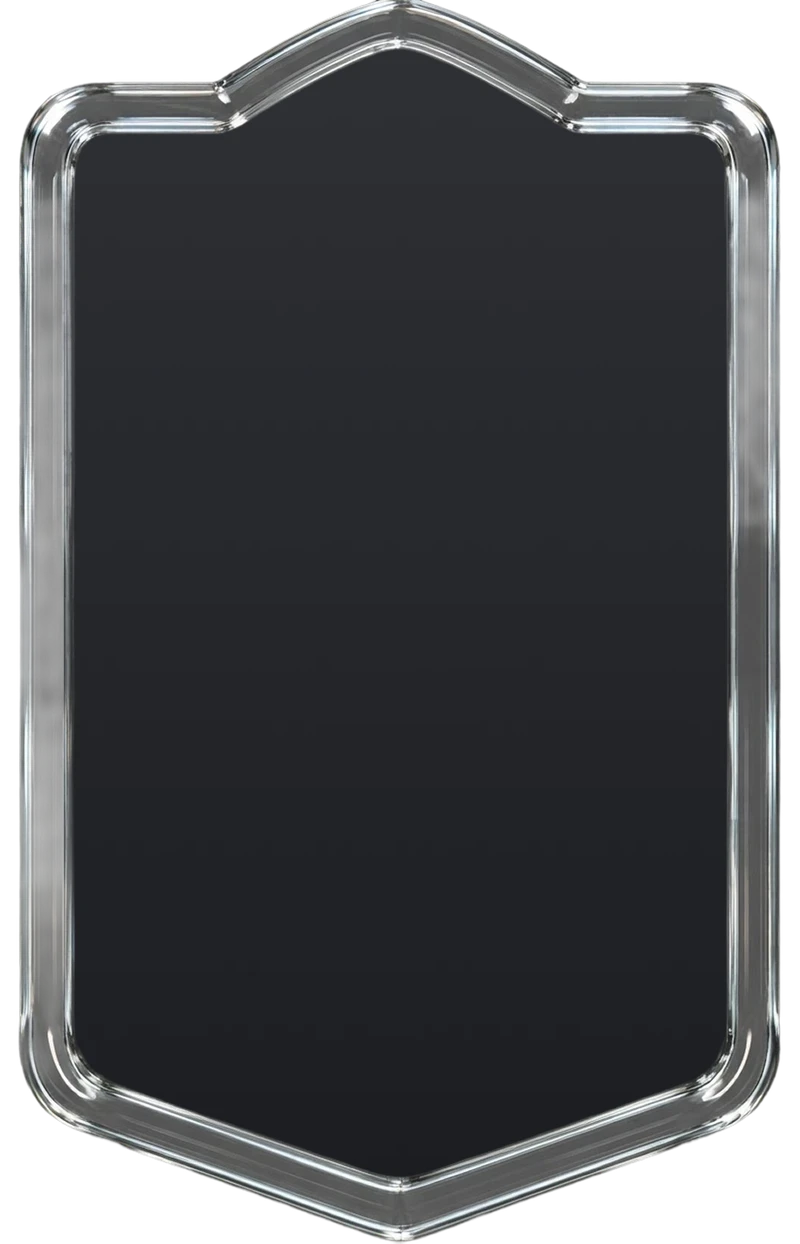
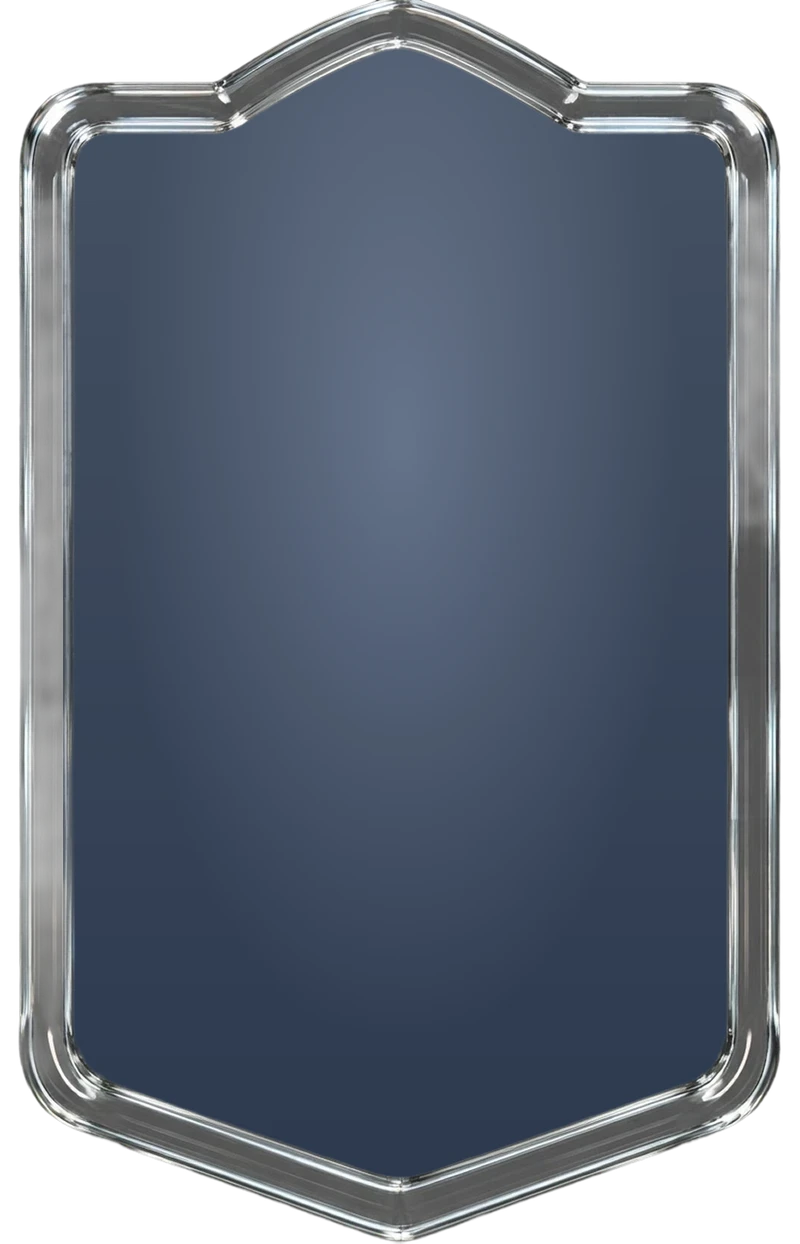
feat(ui): Simple Glass gets a frosted-glass interior (live blur + dark tint) (#2173)
* feat(ui): Simple Glass gets a frosted-glass interior (live blur + dark tint) (owner 2026-10-19)

The interior image is only a shape: the card masks a static backdrop-filter blur and a dark tint to it; a dragged card
drops the blur. New interiors/frosted.webp (Simple Black's outline) for the Collection picture.

* fix(ui): Simple Glass frosted glass is one light grey everywhere, with more blur (owner 2026-10-19)

"i like the lighter grey hover effect more and want to get it closer to that at all times. maybe increase the amount
of blur a bit". Frosted grey layer rgba(138, 144, 156, 0.6) instead of a dark tint, blur 6px -> 10px, and a dragged
card keeps the same grey (only the blur is dropped).

* fix(ui): Simple Glass frost lighter (grey 0.24), stronger blur (15px), and it blurs while dragged (owner 2026-10-19)

"reduce the opacity of the light grey by 60% and increase the blur by 50%"; "can you have it apply the blur while
moving ?" A dragged glass card moves the drag layer's drop-shadow onto its frame, since a filter on the drag layer
would make it a backdrop root and the blur would see nothing.

* fix(ui): Simple Glass blur-only test setting: grey 0, blur 40px (owner 2026-10-19)

"reduce the opacity of the light grey to 0 for now. i just want to see the blur", "dramatically increase the blur
amount".

* fix(ui): Simple Glass holds the dragging look everywhere: warm grey layer at 65% over the 40px blur (owner 2026-10-19)
[…]

diff --git a/packages/ui/src/styles.css b/packages/ui/src/styles.css
@@ -3347,7 +3347,17 @@ body.modalup .app { z-index: auto; }
 /* right-click inspect: the card floats to centre, enlarged, over a dimmed backdrop */
 /* z-index 500 keeps inspect above even the end-of-run overlay (z 400), so right-clicking a minion in
    the final warband to read its buffs works there too. */
-.inspect-ov { position: fixed; inset: 0; z-index: 500; background: rgba(26, 16, 6, 0.6); -webkit-backdrop-filter: blur(8px); backdrop-filter: blur(8px); display: grid; place-items: center; animation: fadein 0.14s ease; cursor: url('/cursors/gauntlet_default.svg') 6 2, auto; }
+/* The dim + blur live on a `::before` BEHIND the card, not on the overlay itself: a `backdrop-filter` on an ancestor
+   makes it a backdrop root, so a frosted-glass card plate inside (Simple Glass) would blur only the overlay's own
+   tint, never the board (owner 2026-10-19: "the blur effect is not happening when … inspecting"). Same look. */
+.inspect-ov { position: fixed; inset: 0; z-index: 500; display: grid; place-items: center; animation: fadein 0.14s ease; cursor: url('/cursors/gauntlet_default.svg') 6 2, auto; }
+.inspect-ov::before { content: ''; position: absolute; inset: 0; z-index: -1; background: rgba(26, 16, 6, 0.6); -webkit-backdrop-filter: blur(8px); backdrop-filter: blur(8px); }
+/* An opacity fade makes its element a backdrop root too, so for a glass card only the backdrop fades and the card
+   pops on scale alone: the glass is blurred from the first frame instead of switching colour after the fade. */
+.inspect-ov:has(.plate-frosted) { animation: none; }
+.inspect-ov:has(.plate-frosted)::before { animation: fadein 0.14s ease; }
+.inspect-ov .inspect-card:has(.plate-frosted) { animation-name: inspectpop-glass; }
+@keyframes inspectpop-glass { from { transform: scale(1.45) translateY(-15%); } to { transform: scale(1.9) translateY(-15%); } }
 /* The inspect view scales the whole group (buff breakdown + card) as one unit, so the breakdown
    panel sits cleanly to the LEFT of the enlarged card without transform/layout mismatch. */
 .inspect-card { position: relative; display: flex; align-items: center; gap: 10px; transform: scale(1.9) translateY(-15%); transform-origin: center; animation: inspectpop 0.18s cubic-bezier(0.34, 1.3, 0.64, 1); }
@@ -4942,6 +4952,51 @@ body.dragging .zone[data-zone='tavern'] .card:hover .cglow { opacity: 0; }
   pointer-events: none;
   user-select: none;
 }
+/* A FROSTED interior (cardPlateLook.ts `frosted`, Simple Glass; owner 2026-10-19: "clear and blurs all imagery behind
+   it", then "i like the lighter grey hover effect more and want to get it closer to that at all times. maybe increase
+   the amount of blur a bit"). The interior <img> keeps its box (so the fit, the fade-in and the Card Plate Editor's
+   sliders all work unchanged) but paints NONE of its pixels: `object-position` throws the image out of its own box.
+   What shows is a blur of what is behind the card under a thin GREY layer (values below), both clipped to the
+   interior's outline by masking the element with that same image. STATIC: nothing here animates (performance north star).
+   It BLURS WHILE DRAGGED too (owner 2026-10-19: "can you have it apply the blur while moving ?"). The drag layer's
+   drop-shadow is a `filter`, which would make it a backdrop root (the blur would see nothing behind the card), so a
+   dragged GLASS card moves that shadow onto its frame instead: same silhouette shadow, and the blur sees the board.
+   Costs a re-blur per frame for that one card while it moves. */
+.card.plated .cardplate.plate-interior.plate-frosted {
+  object-position: -100000px 0;
+  /* Owner 2026-10-19, once the blur showed in every state: "make the grey layer less warm and more dark grey, then
+     reduce its opacity to 15%. reduce the blur by 20px" (from a warm rgba(140, 118, 120, 0.65) over a 40px blur), then
+     "reduce the blur to 13px. increase the grey opacity to 25%", then "reduce the blur to 10px",
+     then "increase grey to 35%", then "reduce blur to 7px". */
+  background: rgba(58, 60, 64, 0.35);
+  -webkit-backdrop-filter: blur(7px); backdrop-filter: blur(7px);
+  -webkit-mask: var(--plate-frost-mask) center / 100% 100% no-repeat; mask: var(--plate-frost-mask) center / 100% 100% no-repeat;
+}
+.dragcard:has(.plate-frosted) { filter: none; }
+.dragcard:has(.plate-frosted) .plate-frame { filter: drop-shadow(0 16px 22px rgba(0, 0, 0, 0.34)); }
+/* Same for a HOVERED hand card (owner 2026-10-19: "the blur effect is not happening when hovering"): the hover lift's
+   drop-shadow `filter` would cut the glass off from the board, so a glass card shadows its frame instead. */
+.row.hand .card.plated:has(.plate-frosted):hover { filter: none; }
+.row.hand .card.plated:has(.plate-frosted):hover .plate-frame { filter: drop-shadow(0 calc(9 * var(--u)) calc(20 * var(--u)) rgba(20, 12, 4, 0.42)); }
+/* And the hover reveal / cast preview popups (owner 2026-10-19: "hovering a card in shop, the blur and grey isnt
+   applied"): their white haze is a `filter` on the whole popup, so with a glass card the haze moves onto the frame and
+   each side panel, and the reveal slides in without its opacity fade (a fade is a backdrop root too). */
+.cardref:has(.plate-frosted), .castprev:has(.plate-frosted) { filter: none; }
+.cardref:has(.plate-frosted) .plate-frame, .cardref:has(.plate-frosted) .cardref-inner > :not(.card),
+.castprev:has(.plate-frosted) .plate-frame {
+  filter: drop-shadow(0 0 11px rgba(255, 255, 255, 0.75)) drop-shadow(0 0 26px rgba(255, 255, 255, 0.45)) drop-shadow(0 12px 28px rgba(0, 0, 0, 0.45));
+}
+.cardref:has(.plate-frosted) { animation-name: cardrefin-glass; }
+@keyframes cardrefin-glass { from { transform: translateX(-10px); } to { transform: translateX(0); } }
+/* No opacity on the glass's way IN either (owner 2026-10-19: "theres a brief mooment that it takes before it loads the
+   blur when hovering"): a glass card's mount pop is motion-only, and the glass skips the art-pending hide (it paints
+   none of the image's pixels, and its mask shows nothing until that image is there anyway), so the blur is on from
+   the first frame instead of after ~0.3 s. A delayed token pop keeps its fade (it must stay invisible while it waits). */
+.card.popin:not(.popdelay):has(.plate-frosted) { animation-name: cardpop-glass; }
+.row.hand .card.popin:not(.popdelay):has(.plate-frosted) { animation-name: handpop-glass; }
+@keyframes cardpop-glass { from { transform: translateY(8px); } to { transform: none; } }
+@keyframes handpop-glass { from { transform: translateY(var(--hand-tuck, 32%)) scale(0.9); } to { transform: translateY(var(--hand-tuck, 32%)) scale(1); } }
+.card.plated .cardplate.plate-interior.plate-frosted.art-pending { opacity: 1 !important; }
 /* The hover glow traces the FRAME on a layered plate, so it takes the same nudge and size. */
 .card.plated .plateglow.plate-framed { transform: translateX(-50%) translate(calc(var(--ccw) * var(--plate-frame-x, 0)), calc(var(--ccw) * var(--plate-frame-y, 0))) scale(var(--plate-art-s, 1)); }
 .card.compact.showtext.spellcard .drawer .plate-frame {

diff --git a/packages/ui/src/cardPlate/cardPlate.test.tsx b/packages/ui/src/cardPlate/cardPlate.test.tsx
@@ -84,6 +84,55 @@ describe('the card plate a card wears', () => {
     expect(drawer.indexOf('plate-frame')).toBeLessThan(drawer.findIndex((c) => c === 'cn'));
   });
 
+  it('Simple Glass has a FROSTED interior: a live blur of what is behind, masked to its shape, no pixels of its own (owner 2026-10-19)', () => {
+    // "create a card interior for the blown glass card frame that would actually just be clear and blurs all imagery
+    // behind it"; "slightly darkened too to help readability".
+    const el = render('k_pouchpincher', 'neutral', { snapshot: { cardPlate: 'plate_simple_glass' } as unknown as typeof AQUARIUM });
+    const interior = el.querySelector('img.cardplate')!;
+    expect(interior.classList.contains('plate-frosted')).toBe(true);
+    expect(interior.getAttribute('src')).toContain('frames/plates/interiors/frosted.webp');
+    expect(el.style.getPropertyValue('--plate-frost-mask')).toContain('frames/plates/interiors/frosted.webp');
+    expect(el.querySelector('img.descbox')).toBeNull();
+    // No other plate is frosted.
+    for (const look of Object.values(CARD_PLATE_LOOKS)) expect(!!look.frosted, look.id).toBe(look.id === 'plate_simple_glass');
+    // The stylesheet blurs and tints it and hides the image's own pixels.
+    const css = readFileSync(join(__dirname, '../styles.css'), 'utf8');
+    const rule = css.slice(css.indexOf('.card.plated .cardplate.plate-interior.plate-frosted {'));
+    expect(rule.slice(0, rule.indexOf('}'))).toMatch(/backdrop-filter: blur\(\d+px\)[\s\S]*mask: var\(--plate-frost-mask\)/);
+    // ...and it blurs WHILE DRAGGED too (owner 2026-10-19: "can you have it apply the blur while moving ?"): the drag layer's
+    // drop-shadow filter would block the blur, so a dragged glass card drops it and shadows its frame instead.
+    expect(css).not.toMatch(/\.dragcard[^{]*plate-frosted[^{]*\{[^}]*backdrop-filter: none/);
+    expect(css).toMatch(/\.dragcard:has\(\.plate-frosted\) \{ filter: none; \}/);
+    expect(css).toMatch(/\.dragcard:has\(\.plate-frosted\) \.plate-frame \{ filter: drop-shadow\(/);
+    // ...and while HOVERED in hand, and in INSPECT (owner 2026-10-19: "the blur effect is not happening when hovering,
+    // when in hand, when inspecting"). Any ancestor with a filter, an opacity fade or its own backdrop-filter cuts the
+    // glass off from the board, so: the hover lift's shadow moves onto the frame, and Inspect's dim + blur live on a
+    // ::before behind the card rather than on the overlay, which a glass card's Inspect does not opacity-fade.
+    expect(css).toMatch(/\.row\.hand \.card\.plated:has\(\.plate-frosted\):hover \{ filter: none; \}/);
+    expect(css).toMatch(/\.row\.hand \.card\.plated:has\(\.plate-frosted\):hover \.plate-frame \{ filter: drop-shadow\(/);
+    const ov = css.slice(css.indexOf('.inspect-ov { position: fixed;'));
+    expect(ov.slice(0, ov.indexOf('}'))).not.toMatch(/backdrop-filter|background/);
+    expect(css).toMatch(/\.inspect-ov::before \{[^}]*backdrop-filter: blur\(/);
+    expect(css).toMatch(/\.inspect-ov:has\(\.plate-frosted\) \{ animation: none; \}/);
+    // ...and in the shop's hover reveal and the cast preview (owner 2026-10-19: "hovering a card in shop, the blur and grey
+    // isnt applied"): their haze filter moves off the popup, and the reveal slides in without an opacity fade.
+    expect(css).toMatch(/\.cardref:has\(\.plate-frosted\), \.castprev:has\(\.plate-frosted\) \{ filter: none; \}/);
+    expect(css).toMatch(/\.cardref:has\(\.plate-frosted\) \{ animation-name: cardrefin-glass; \}/);
+    const refIn = css.slice(css.indexOf('@keyframes cardrefin-glass'));
+    expect(refIn.slice(0, refIn.indexOf('} }'))).not.toMatch(/opacity/);
+    // No fade on the way in at all (owner 2026-10-19: "theres a brief mooment that it takes before it loads the blur when
+    // hovering"): a glass card's mount pop is motion-only, and the glass ignores the art-pending hide.
+    expect(css).toMatch(/\.card\.popin:not\(\.popdelay\):has\(\.plate-frosted\) \{ animation-name: cardpop-glass; \}/);
+    expect(css).toMatch(/\.row\.hand \.card\.popin:not\(\.popdelay\):has\(\.plate-frosted\) \{ animation-name: handpop-glass; \}/);
+    for (const k of ['cardpop-glass', 'handpop-glass']) {
+      const kf = css.slice(css.indexOf(`@keyframes ${k}`));
+      expect(kf.slice(0, kf.indexOf('} }')), k).not.toMatch(/opacity/);
+    }
+    expect(css).toMatch(/\.plate-frosted\.art-pending \{ opacity: 1 !important; \}/);
+    const pop = css.slice(css.indexOf('@keyframes inspectpop-glass'));
+    expect(pop.slice(0, pop.indexOf('} }'))).not.toMatch(/opacity/);
+  });
+
   it('every plate that sat on Brown wears Dark Brown with no darkening (owner 2026-10-18)', () => {
     // "replace all cards' brown interior (except the standard card plate) with the dark brown interior and remove
     // darkening from them"

diff --git a/packages/ui/src/cardPlate/cardPlateLook.ts b/packages/ui/src/cardPlate/cardPlateLook.ts
@@ -67,6 +67,13 @@ export interface CardPlateLook {
    * frame and its glow; the interior follows (see `scaledInterior`). Absent = 1.
    */
   artScale?: number;
+  /**
+   * A FROSTED-GLASS interior (owner 2026-10-19, Simple Glass: "clear and blurs all imagery behind it", "slightly
+   * darkened too to help readability"). The interior image is then only a SHAPE: the card draws none of its pixels,
+   * masks a live `backdrop-filter` blur plus a dark tint to it (styles.css `.plate-frosted`). Its colours show only in
+   * the Collection picture, which cannot blur what is behind it.
+   */
+  frosted?: boolean;
   /** The plate WHOLE, for the Collection (tile + detail panel): the plate itself, or for a layered plate a pre-built
    *  composite of the interior seated in the frame (`<id>.webp`, built at the in-game proportions). */
   thumb: string;
@@ -75,14 +82,14 @@ export interface CardPlateLook {
 const PLATE_DIR = `${import.meta.env.BASE_URL}frames/plates/`;
 
 /** The shared interiors a layered plate can sit on (`frames/plates/interiors/<name>.webp`). Brown is the default. */
-export const PLATE_INTERIORS = ['brown', 'dark', 'magma', 'water', 'simpleblack', 'darkbrown', 'grey', 'mystic', 'roundmagic', 'silvermagic', 'wartorn'] as const;
+export const PLATE_INTERIORS = ['brown', 'dark', 'magma', 'water', 'simpleblack', 'darkbrown', 'grey', 'mystic', 'roundmagic', 'silvermagic', 'wartorn', 'frosted'] as const;
 export type PlateInterior = (typeof PLATE_INTERIORS)[number];
 export const DEFAULT_PLATE_INTERIOR: PlateInterior = 'brown';
 
 /** Each interior image's height / width: it is drawn 1.08 card widths wide, so this sets its height. */
 const INTERIOR_ASPECT: Readonly<Record<PlateInterior, number>> = {
   brown: 1.7985, dark: 1.8032, magma: 1.8032, water: 1.8031, simpleblack: 1.7254, darkbrown: 1.7985, grey: 1.8032,
-  mystic: 1.6554, roundmagic: 1.7184, silvermagic: 1.7261, wartorn: 1.6276,
+  mystic: 1.6554, roundmagic: 1.7184, silvermagic: 1.7261, wartorn: 1.6276, frosted: 1.7254,
 };
 
 /**
@@ -100,7 +107,7 @@ function scaledInterior(s: number, interior: PlateInterior, sx: number, sy: numb
 }
 
 /** One entry per `card_plate` art key (`assets.art`). Tuned by eye with the owner in game, 2026-10-14. */
-type LookSettings = Pick<CardPlateLook, 'boxA' | 'boxBlend' | 'boxY' | 'frameX' | 'frameY' | 'interiorSx' | 'interiorSy' | 'interiorX' | 'interiorY' | 'artScale'> & {
+type LookSettings = Pick<CardPlateLook, 'boxA' | 'boxBlend' | 'boxY' | 'frameX' | 'frameY' | 'interiorSx' | 'interiorSy' | 'interiorX' | 'interiorY' | 'artScale' | 'frosted'> & {
   /** false = no text darkening on this plate (its interior is already dark enough). */
   darken?: boolean;
   /** A layered plate (interior -> darkening -> frame). */
@@ -172,7 +179,9 @@ const SETTINGS: Readonly<Record<string, LookSettings>> = {
   // Simple Glass: the Simple template (pointed bottom), like Simple Black. The glass is see-through on its left
   // edge, so its fit counted alpha > 60 as frame (`--fit-alpha 60`); the opening is centred like Simple Black's.
   // Owner 2026-10-17: "the glass frame needs the simpleblack interior" (was Grey); refit on that interior's shape.
-  plate_simple_glass: { ...AQUARIUM_ROCKS, layered: true, interior: 'simpleblack', frameX: 0.004, interiorSx: 1.171, interiorSy: 1.159, interiorY: 0.0919, darken: false },
+  // Owner 2026-10-19: FROSTED, "clear and blurs all imagery behind it" and "slightly darkened". The `frosted` interior is
+  // Simple Black's exact outline (same size), so its fit holds.
+  plate_simple_glass: { ...AQUARIUM_ROCKS, layered: true, interior: 'frosted', frosted: true, frameX: 0.004, interiorSx: 1.171, interiorSy: 1.159, interiorY: 0.0919, darken: false },
   // Stonevines: the standard template with vines spilling over the edge, on the Grey interior; opening 0.5px left.
   plate_stonevines: { ...AQUARIUM_ROCKS, layered: true, interior: 'grey', frameX: 0.005, interiorSx: 1.047, interiorSy: 1.026, interiorY: -0.0066, darken: false },
   // The four STANDARD colours: the standard plate's shape recoloured, on the new Dark Brown interior; openings 1px left

diff --git a/packages/rules/src/registry/approved/foundation.ts b/packages/rules/src/registry/approved/foundation.ts
@@ -6936,4 +6936,40 @@ export const FOUNDATION_RULES: GameRule[] = [
     currentBehaviour: 'Conforms as of 2026-10-18 (feat/mobile-touch-ui-scale).',
     enforcement: { kind: 'scenario', refs: ['packages/ui/src/touchUi.test.ts'], lastVerifiedAt: '2026-10-18' },
   },
+  // ── A frosted-glass card plate blurs what is behind it in every state (owner 2026-10-19) ─────────────────
+  {
+    id: 'R-PLATE-02',
+    title: 'A frosted-glass Card Plate blurs whatever is behind the card in every state it is shown in',
+    statement:
+      'A Card Plate whose interior is frosted glass (Simple Glass today) shows a soft blur of whatever is actually behind '
+      + 'the card, under its own tint, wherever the card is drawn: at rest in the hand, hovered in the hand, while being '
+      + 'dragged, enlarged in Inspect, and in the hover reveal (hovering a shop or board card). It never shows a flat colour in one of those states and the blur in another, '
+      + 'and it never switches between the two after a short delay.',
+    domain: 'foundation',
+    status: 'approved',
+    evidence: [
+      { kind: 'owner-chat', ref: 'Claude Code session, 2026-10-19 (Simple Glass frosted interior)', quote: 'heres while dragging. THIS is the effect i want on it at all times' },
+      { kind: 'owner-chat', ref: 'Same session, 2026-10-19', quote: 'the blur effect is not happening when hovering, when in hand, when inspecting' },
+      { kind: 'owner-chat', ref: 'Same session, 2026-10-19', quote: 'the only thing not working still is the hovering a c ard in shop, the blur and grey isnt applied.' },
+      { kind: 'owner-chat', ref: 'Same session, 2026-10-19', quote: 'theres a brief mooment that it takes before it loads the blur when hovering' },
+      { kind: 'fix-pr', ref: 'feat/simple-glass-frosted (PR #2173): packages/ui/src/styles.css (`.dragcard:has(.plate-frosted)`, `.row.hand .card.plated:has(.plate-frosted):hover`, `.inspect-ov::before`, `inspectpop-glass`, `.cardref:has(.plate-frosted)`, `cardrefin-glass`, `cardpop-glass`, `handpop-glass`, `.plate-frosted.art-pending`)' },
+    ],
+    currentBehaviour:
+      'Conforms as of 2026-10-19 (feat/simple-glass-frosted) for the hand at rest, hand hover, drag, Inspect and the shop '
+      + 'hover reveal, checked '
+      + 'in a browser against a striped backdrop. The blur is a CSS backdrop-filter, which sees nothing past an ancestor '
+      + 'that has a filter, an opacity below 1 or a backdrop-filter of its own. Before the fix the hover lift\x27s '
+      + 'drop-shadow, the drag layer\x27s drop-shadow, the hover reveal\x27s white haze and fade-in, and the Inspect '
+      + 'overlay\x27s own blur and fade-in each cut the glass off, and the card\x27s mount fade (`popin`) plus the '
+      + 'glass\x27s own wait for its plate image hid it for ~0.3 s on every hover; together they cut the glass '
+      + 'off, so it showed only its tint. PARTIAL: the cast preview (a cast spell floating over its caster) has its haze '
+      + 'moved the same way but fades in and out, and its tuner\x27s max opacity can sit below full, so the glass there can '
+      + 'read as the tint alone; Discover and the Collection preview were not checked; the Collection tile is a pre-built '
+      + 'picture and cannot blur.',
+    example:
+      'Equip Simple Glass. Hover a hand card that sits over the board edge: the edge shows through the glass as a soft '
+      + 'blur, the same as when that card is dragged over it. Right-click it: in Inspect the glass shows the dimmed '
+      + 'board blurred, from the first frame.',
+    enforcement: { kind: 'scenario', refs: ['packages/ui/src/cardPlate/cardPlate.test.tsx'], lastVerifiedAt: '2026-10-19' },
+  },
 ];

diff --git a/packages/ui/src/Card.tsx b/packages/ui/src/Card.tsx
@@ -940,7 +940,7 @@ export const Card = memo(function Card({
         // the card's own entry — the base and the branch are different pictures (owner ask 2026-08-28).
         ...(cardArtVars(card.cardId ? artVariantKey(card.cardId, card.chosenOption) : undefined, card.cardId) ?? {}),
         /* A card plate's own darkening (2026-10-14): inline, so it beats the Card Text tuner's :root values on THIS card. */
-        ...(plateLook ? { '--ctx-box-a': plateLook.boxA, '--ctx-box-blend': plateLook.boxBlend, '--ctx-box-y': plateLook.boxY, ...(plateLook.frameX ? { '--plate-frame-x': plateLook.frameX } : {}), ...(plateLook.frameY ? { '--plate-frame-y': plateLook.frameY } : {}), ...(plateLook.interiorX ? { '--plate-interior-x': plateLook.interiorX } : {}), ...(plateLook.interiorSx ? { '--plate-interior-sx': plateLook.interiorSx } : {}), ...(plateLook.interiorSy ? { '--plate-interior-sy': plateLook.interiorSy } : {}), ...(plateLook.interiorY ? { '--plate-interior-y': plateLook.interiorY } : {}), ...(plateLook.artScale ? { '--plate-art-s': plateLook.artScale } : {}) } : {}),
+        ...(plateLook ? { '--ctx-box-a': plateLook.boxA, '--ctx-box-blend': plateLook.boxBlend, '--ctx-box-y': plateLook.boxY, ...(plateLook.frameX ? { '--plate-frame-x': plateLook.frameX } : {}), ...(plateLook.frameY ? { '--plate-frame-y': plateLook.frameY } : {}), ...(plateLook.interiorX ? { '--plate-interior-x': plateLook.interiorX } : {}), ...(plateLook.interiorSx ? { '--plate-interior-sx': plateLook.interiorSx } : {}), ...(plateLook.interiorSy ? { '--plate-interior-sy': plateLook.interiorSy } : {}), ...(plateLook.interiorY ? { '--plate-interior-y': plateLook.interiorY } : {}), ...(plateLook.artScale ? { '--plate-art-s': plateLook.artScale } : {}), ...(plateLook.frosted ? { '--plate-frost-mask': `url("${plateLook.plate}")` } : {}) } : {}),
         transform: handSlidePx
           ? `translateX(${handSlidePx}px) translateY(var(--hand-tuck, 0px)) rotate(var(--fan-rot, 0deg))` /* hand reorder: keep the tuck + fan tilt while parting */
           : slideDir ? `translateX(calc((var(--ccw) + 22px) * ${slideDir}))` : undefined } as CSSProperties}
@@ -1002,7 +1002,7 @@ export const Card = memo(function Card({
               src, so the browser serves it from cache — no second decode. */}
           <img decoding="sync" className={`plateglow${plateLook?.frame ? ' plate-framed' : ''}${plateFade.cls}`} src={plateLook?.frame ?? plateSrc} alt="" aria-hidden="true" draggable={false} />
           <img decoding="sync"
-            className={`cardplate${plateLook?.frame ? ' plate-interior' : ''}${plateFade.cls}`}
+            className={`cardplate${plateLook?.frame ? ' plate-interior' : ''}${plateLook?.frosted ? ' plate-frosted' : ''}${plateFade.cls}`}
             src={plateSrc}
             alt=""
             aria-hidden="true"

diff --git a/packages/ui/src/patchNotes.ts b/packages/ui/src/patchNotes.ts
@@ -58,6 +58,7 @@ export const PATCH_NOTES: PatchNote[] = [
   {
     date: '2026-10-19',
     changes: [
+      { category: 'Systems', text: 'The Simple Glass Card Plate is now real frosted glass: a light grey pane that softly blurs whatever is behind the card.' },
       { category: 'Systems', text: 'Nothing flashes over the blue curtain between the Shop and combat any more.', details: ['Effects and pop-ups that used to poke through it (the Rebirth flame, the rune lock-in, tutorial tips, emotes, screen flashes) now stay hidden behind it until the new screen is revealed.', 'The Esc menu and the replay controls still show on top if they are open.'] },
       { category: 'Systems', text: 'Many Card Plates changed rarity, so more of them drop from crates.', details: ['Now Rare: Hand Drawn, Blue Hand Drawn, Green Hand Drawn, Smooth Aqua, Smooth Blue, Smooth Red, Beach, Magma, Bamboo, Aquarium Rocks and Amethyst.', 'Now Epic: Iridescent, Smooth Iridescent, Galaxy, Chrome, Topaz, Crackling Gemstone, Carved Aetherstone, Honey, Goop, White Magic and Runic.', 'Now Ancient: Frozen Aurora, The Howl and Nano.'] },
       { category: 'Systems', text: 'Twenty more Legendary Card Plates to find in crates.', details: ['Celestial, Runic, Verdant, Volcanic, Armored Knight, Bordered Land, Carved Aetherstone, Elegant, Frozen Aurora, Hivemind, Ironwood, Solar, Static, Twisted Ether, White Magic, Nano, Soulwitch, Spades, The Howl, Vintage Oak.'] },

diff --git a/docs/devlog/2026-10-19-simple-glass-frosted.md b/docs/devlog/2026-10-19-simple-glass-frosted.md
@@ -1,0 +1,87 @@
+# 2026-10-19 — Simple Glass gets a frosted-glass interior
+
+Owner (2026-10-19): *"would it be possible to create a card interior for the blown glass card frame that would actually
+just be clear and blurs all imagery behind it?"*, then *"yes simple glass, we can have the frosted blur interior slightly
+darkened too to help readability"*.
+
+## What shipped
+
+- **`frosted`** (cardPlateLook.ts): a look flag. The interior `<img>` keeps its box, so the fit, the fade-in and the Card
+  Plate Editor's sliders all work unchanged, but paints none of its pixels (`object-position` throws the image out of
+  its box). What shows is `backdrop-filter: blur(6px)` of whatever is behind the card plus an `rgba(8, 11, 18, 0.38)` tint,
+  both masked to the interior's outline (`--plate-frost-mask`, the same image).
+- **`interiors/frosted.webp`**: Simple Black's exact outline (same size), filled with a cool frosted gradient. In game only
+  its shape is used; its colours are what the Collection picture shows, since a pre-built picture cannot blur.
+- Simple Glass moves to the `frosted` interior, keeping its fit.
+
+## Performance
+
+`backdrop-filter` re-blurs whatever is behind the element whenever it repaints, so the rule is STATIC (nothing animates),
+the radius is modest (6px), and a DRAGGED card (`.dragcard`) drops the blur for a deeper flat tint. The drag layer has a
+`filter` anyway, which makes it a backdrop root where the blur would see nothing. Any ancestor with a `filter` or
+`opacity < 1` does the same, so in those states the interior reads as the flat tint. Not profiled on a full hand of
+glass-plated cards; worth a look on a phone.
+
+## Follow-up (same day): one light grey everywhere
+
+Owner, comparing screenshots: hovering showed a light grey, the hand and Inspect looked dark, and dragging darker still.
+The drag was my own deeper flat tint (blur off, `rgba(14, 18, 28, 0.72)`); Inspect is dark because its backdrop is dimmed.
+Owner: *"i like the lighter grey hover effect more and want to get it closer to that at all times. maybe increase the
+amount of blur a bit"*. Now: a frosted grey layer `rgba(138, 144, 156, 0.6)` (strong enough that what is behind only
+colours it), blur 6px to 10px, and the drag state keeps the same grey (only the blur is dropped).
+
+Then *"can you reduce the opacity of the light grey by 60% and increase the blur by 50%"*: grey 0.6 to 0.24, blur 10px to 15px.
+
+Then *"can you have it apply the blur while moving ?"*: the drag layer (`.dragcard`) carries a `filter: drop-shadow`, which
+makes it a backdrop root, so a blur inside it sees nothing behind the card. A dragged GLASS card (`.dragcard:has(.plate-frosted)`)
+now drops that filter and puts the same drop-shadow on its `.plate-frame` instead, so the blur stays on while it moves.
+Cost: one re-blur per frame for that card while dragged.
+
+Then *"reduce the opacity of the light grey to 0 for now. i just want to see the blur"* and *"dramatically increase the blur amount"*: grey 0, blur 40px, while the owner judges the blur. Found on the way: Inspect's overlay (`.inspect-ov`) has its own `backdrop-filter: blur(8px)`, which makes it a backdrop root, so inside Inspect the glass can only show the overlay's dark tint (which fades in: the "delayed colour change"), never the board behind it.
+
+Then, from a dragging screenshot: *"THIS is the effect i want on it at all times"*. Dragged over the beige board the glass read rgb(140, 118, 120); in the hand it sits over the purple tray and read purple. The layer is now that colour at 65% (`rgba(140, 118, 120, 0.65)`) with the 40px blur, so it holds the dragging look over any backdrop.
+
+## Follow-up (same day): the blur in hand hover and Inspect
+
+Owner: *"the blur effect is not happening when hovering, when in hand, when inspecting"*, and *"why were we able to add
+blur to the card when moving it? but not when it was hovered?"*. A `backdrop-filter` only sees what is painted inside its
+nearest *backdrop root*, and any ancestor with a `filter`, an `opacity` below 1 or a `backdrop-filter` of its own is one.
+Checked in the browser pane with black/white stripes behind the card, toggling one property at a time:
+
+- **Hand hover**: `.row.hand .card:hover` adds `filter: drop-shadow(...)` (the lift shadow). With it the stripes showed
+  sharp through the glass; without it, blurred. A hovered glass card now drops that filter and puts the same shadow on its
+  `.plate-frame`, exactly like the drag fix. At rest in the hand the glass already blurred.
+- **Inspect**: `.inspect-ov` carried the dim and `backdrop-filter: blur(8px)` itself. Both now live on `.inspect-ov::before`
+  (`z-index: -1`, behind the card), which looks the same and stops the overlay being a backdrop root. The overlay's
+  `fadein` and the card's `inspectpop` both fade opacity, which also cut the glass off for their 0.14-0.18 s (the "delayed
+  colour change"), so with a glass card only the `::before` fades and the card pops on scale alone (`inspectpop-glass`).
+- The `overflow: hidden` on `#root` / `#stage` was a false lead (one test seemed to fix it; a clean retest did not).
+
+Oracle rule: **R-PLATE-02**.
+
+## Follow-up (same day): darker, lighter-touch glass
+
+Owner, happy with the blur everywhere: *"make the grey layer less warm and more dark grey, then reduce its opacity to
+15%. reduce the blur by 20px"*. Layer `rgba(140, 118, 120, 0.65)` to a neutral dark grey `rgba(58, 60, 64, 0.15)`; blur
+40px to 20px.
+
+Then *"reduce the blur to 13px. increase the grey opacity to 25%"*: `rgba(58, 60, 64, 0.25)` over a 13px blur.
+
+Then *"reduce the blur to 10px"*: blur 13px to 10px.
+
+Then *"increase grey to 35%"*: `rgba(58, 60, 64, 0.35)`.
+
+Then *"reduce blur to 7px"*: blur 10px to 7px.
+
+Then *"the only thing not working still is the hovering a c ard in shop, the blur and grey isnt applied"*. The hover
+reveal (`.cardref`) wears its white haze as a `filter` on the whole popup and slides in with an opacity fade, both
+backdrop roots. With a glass card the haze moves onto the frame and the side panels (`.cardref-inner > :not(.card)`),
+and the slide-in is transform-only (`cardrefin-glass`). The cast preview (`.castprev`) gets the same haze move; its
+fades and tunable max opacity still cut the glass off while they run.
+
+Then *"theres a brief mooment that it takes before it loads the blur when hovering"*. Sampled per frame: the reveal's
+card mounts with `.popin` (`cardpop`, an opacity fade, ~0.15 s) and the glass `<img>` itself sat at `art-pending`
+(opacity 0 until its load event, ~0.33 s on the dev server, which re-checks every file). A glass card now pops on motion
+alone (`cardpop-glass` / `handpop-glass`; a delayed token pop keeps its fade so it stays invisible while waiting), and
+the glass ignores `art-pending` (it paints none of the image's pixels; its mask shows nothing until the image is there).
+After: no ancestor below 1 opacity or with a filter from the first sampled frame.
